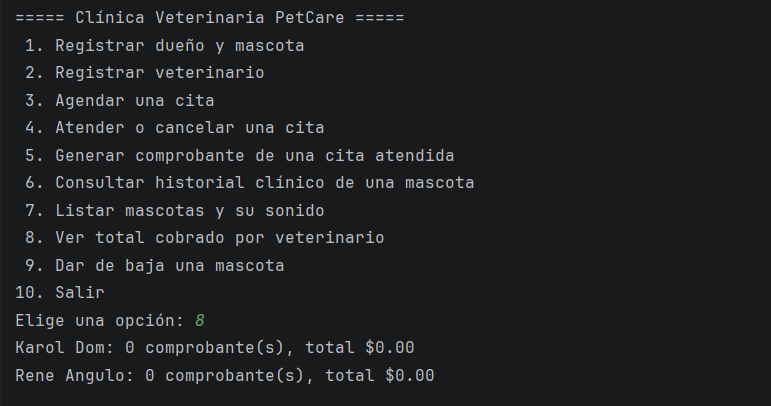
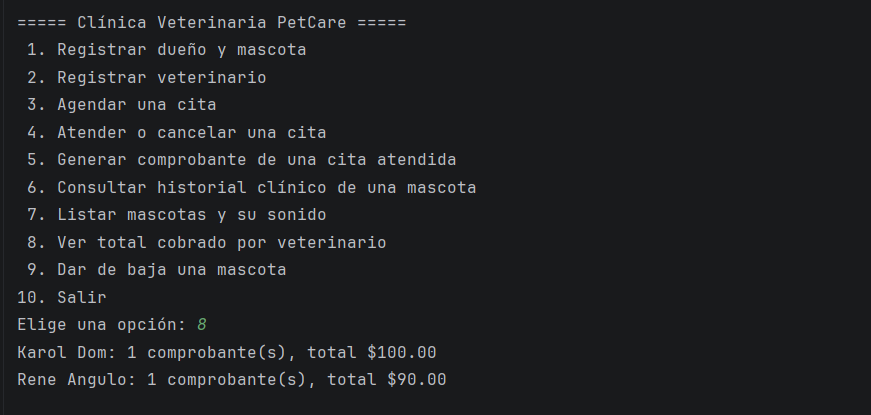
Agregar las capturas corregidas de la ejecución y modificaciones en README

diff --git a/README.md b/README.md
@@ -199,6 +199,8 @@ Escenario de demostración: dos dueños y tres mascotas (perro, gato y ave), dos
 ![cap14](docs/capturas/cap14.png)
 ![cap15](docs/capturas/cap15.png)
 ![cap16](docs/capturas/cap16.png)
+![cap17.1](docs/capturas/cap17.1.png)
+![cap17.2](docs/capturas/cap17.2.png)
 ![cap17](docs/capturas/cap17.png)
 ![cap18](docs/capturas/cap18.png)
 
